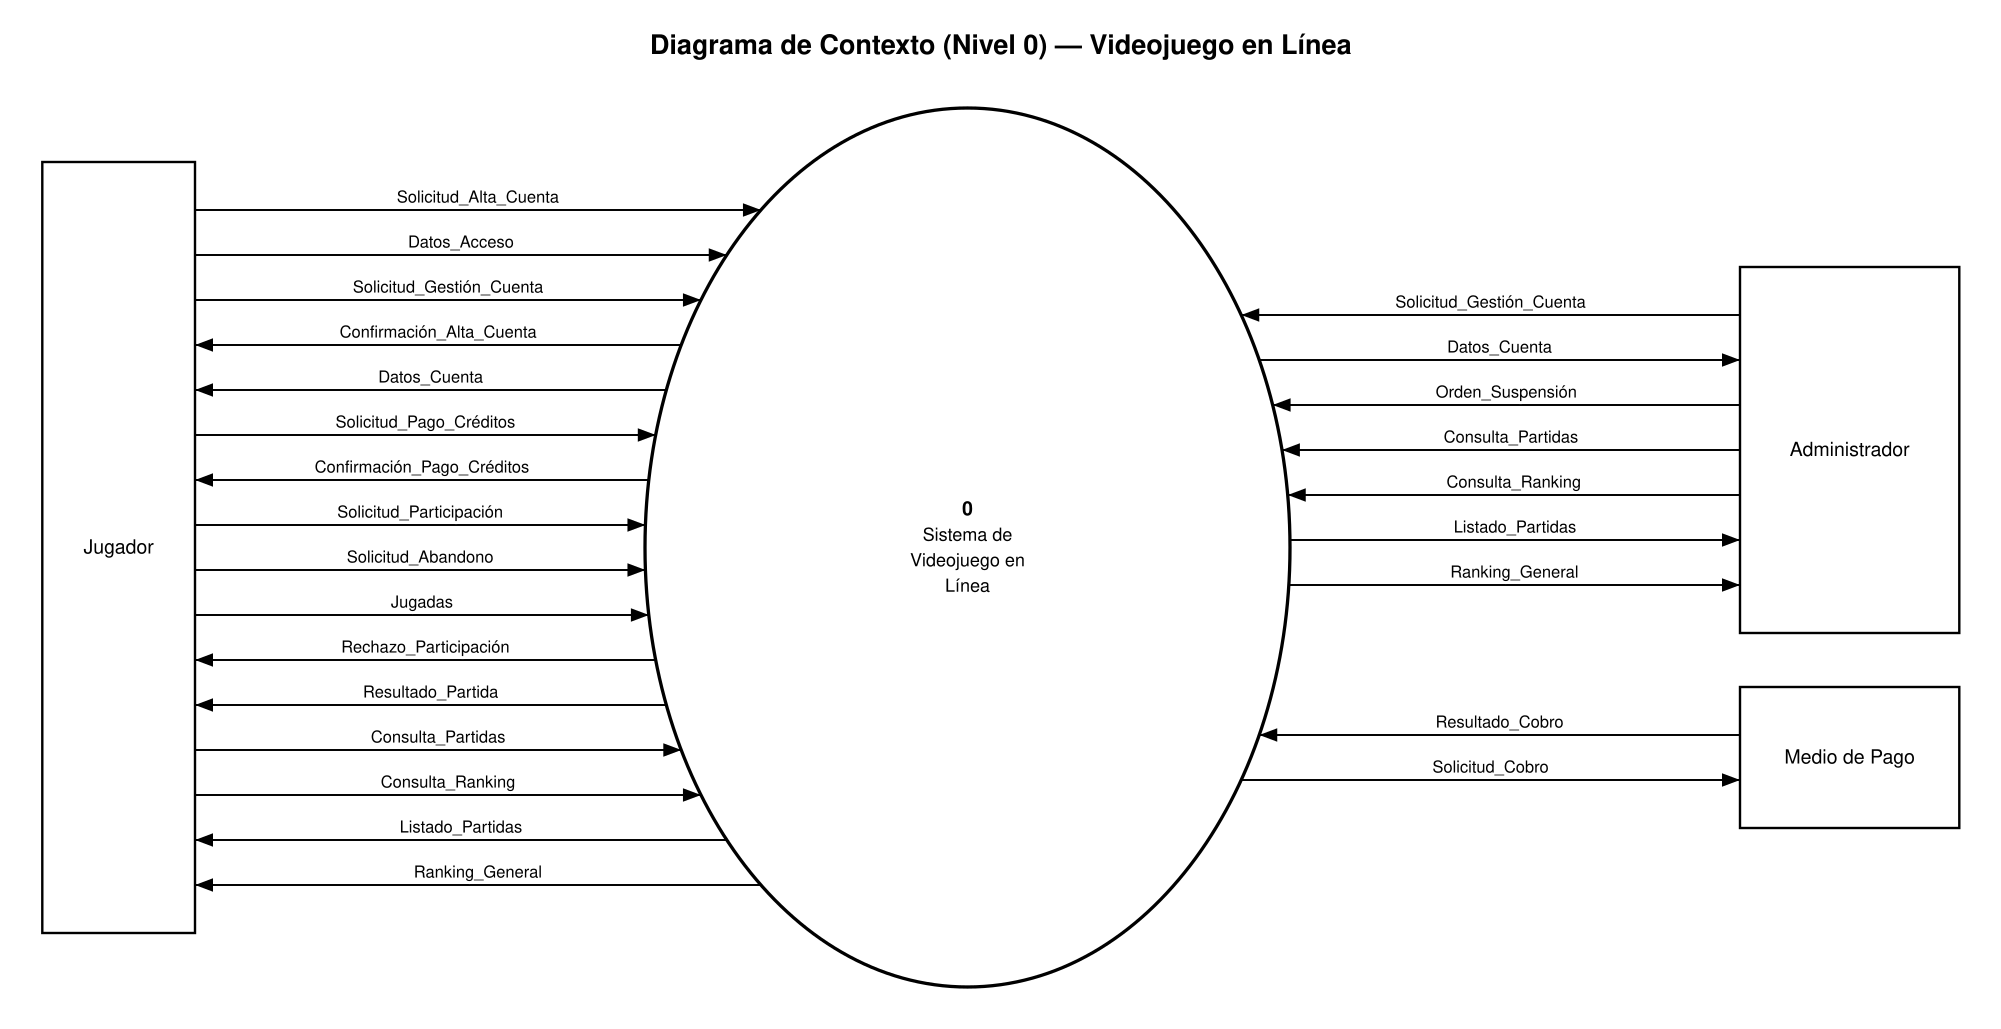
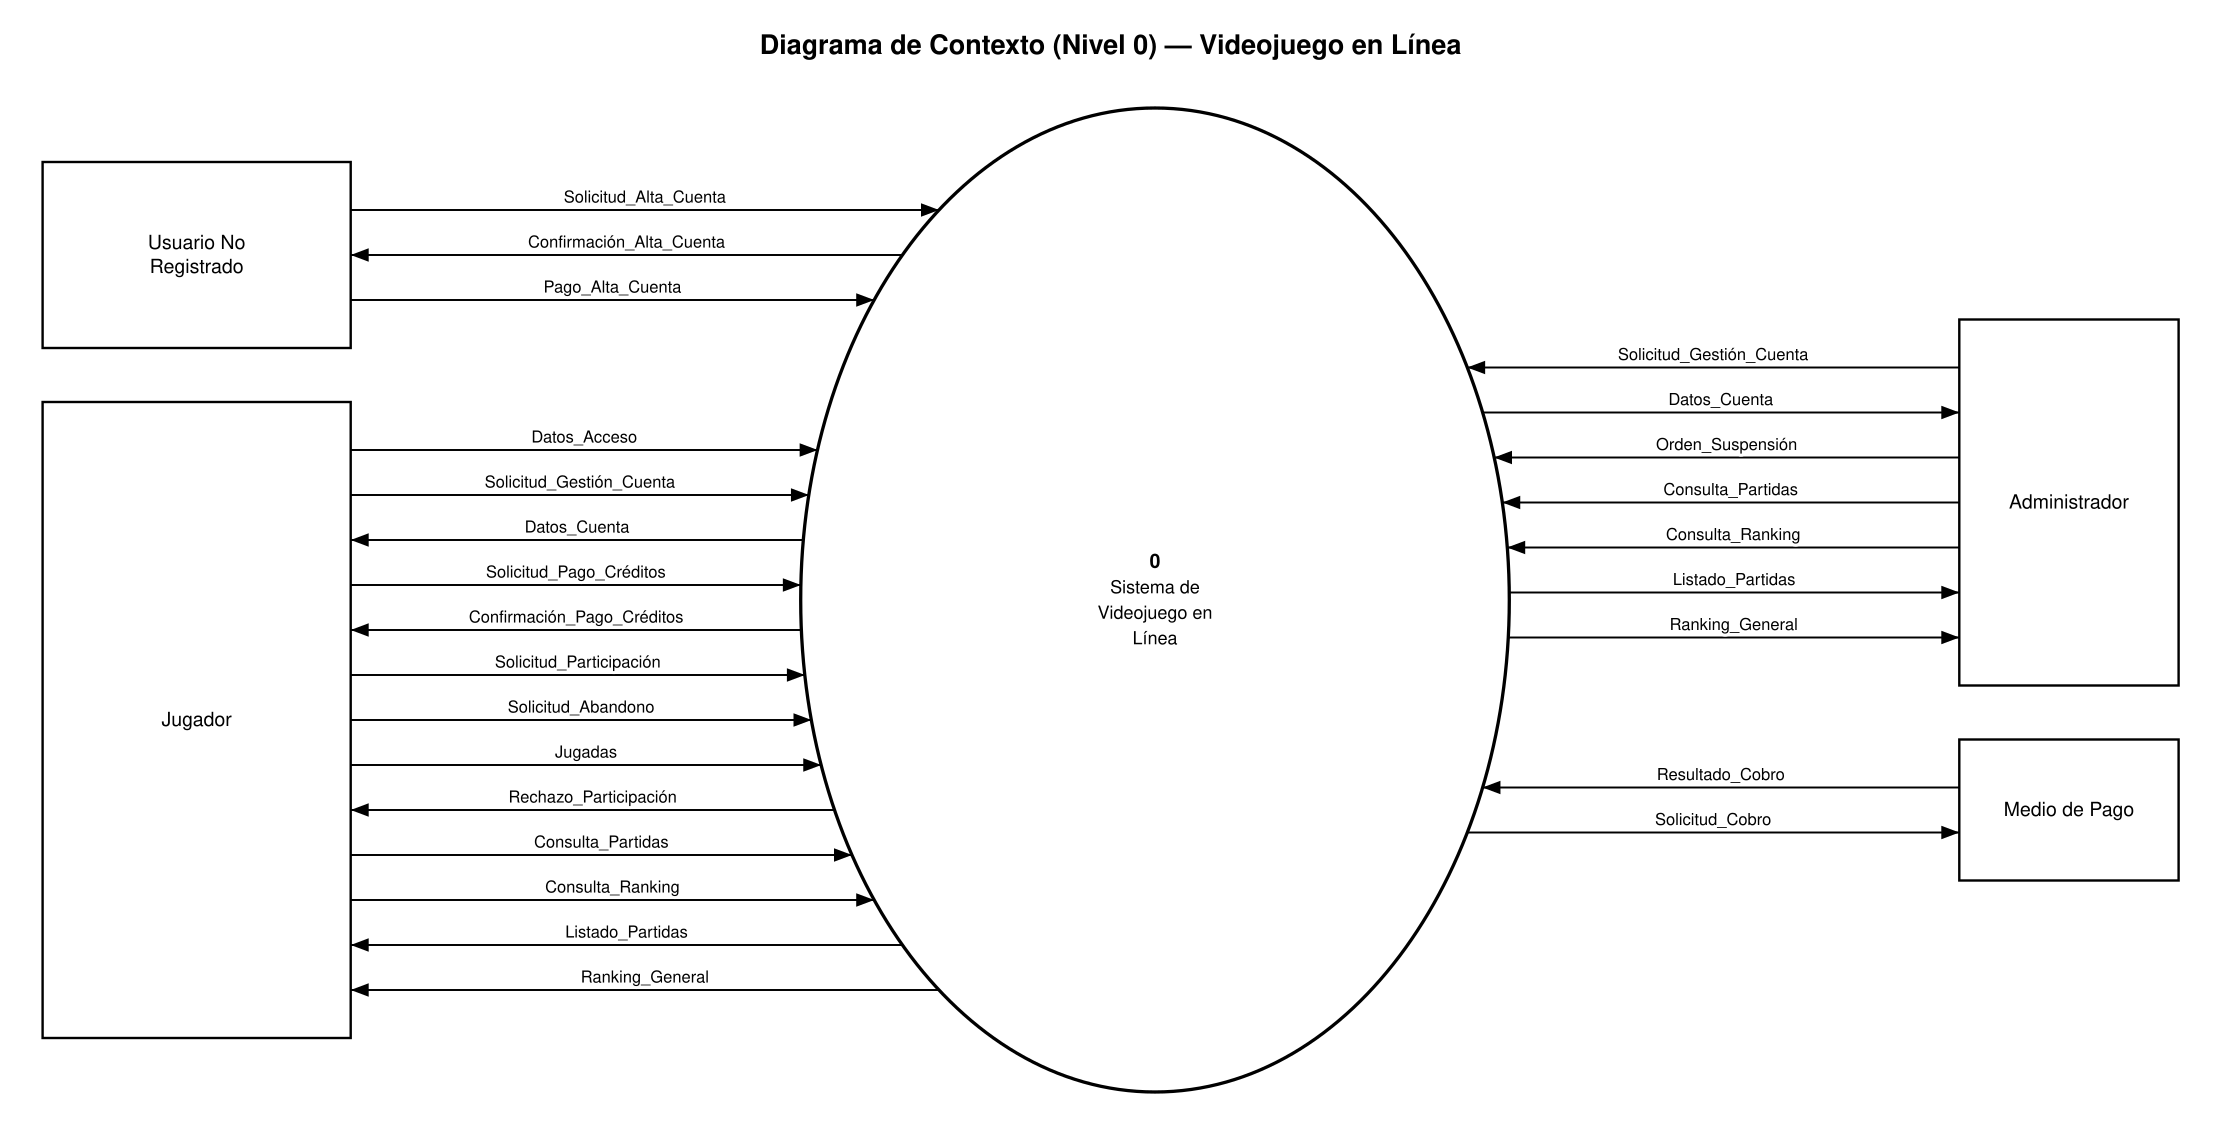
docs: add Usuario No Registrado and account-creation payment to exercise 1 DFD
Remove Resultado_Partida flow; rename process 2 to Gestionar Pagos.

diff --git a/README.md b/README.md
@@ -101,9 +101,10 @@ Se solicita modelar el sistema considerando las distintas entidades involucradas
 
 | Entidad | Rol frente al sistema | Qué envía / qué recibe |
 | --- | --- | --- |
-| **Jugador** | Persona que crea la cuenta (aspirante), inicia sesión, configura su perfil, paga créditos y juega partidas. | Envía solicitud de alta, datos de acceso, pedidos de pago, de participación y de abandono, jugadas y consultas. Recibe confirmaciones, rechazos, resultados, listado de partidas y ranking. |
+| **Usuario No Registrado** | Persona que todavía no tiene cuenta: solicita el alta y debe pagarla para que la cuenta se dé de alta. Al completarse el alta pasa a ser Jugador. | Envía la solicitud de alta y el pago del alta. Recibe la confirmación del alta (o el rechazo por pago no aprobado). |
+| **Jugador** | Persona con cuenta: inicia sesión, configura su perfil, paga créditos y juega partidas. | Envía datos de acceso, pedidos de pago de créditos, de participación y de abandono, jugadas y consultas. Recibe confirmaciones, rechazos, listado de partidas y ranking. |
 | **Administrador** | Gestiona cuentas, suspende cuentas que incumplen las reglas y consulta partidas y ranking. | Envía gestión de cuentas, órdenes de suspensión y consultas. Recibe datos de cuentas, listado de partidas y ranking. |
-| **Medio de Pago** | Organización externa por la que el jugador abona sus créditos (cualquier medio de pago). | Recibe la solicitud de cobro y devuelve su aprobación o rechazo. |
+| **Medio de Pago** | Organización externa por la que se abona el alta de la cuenta y los créditos (cualquier medio de pago). | Recibe la solicitud de cobro y devuelve su aprobación o rechazo. |
 
 No son entidades (están dentro del sistema): **Partida**, **Historial** y **Ranking** son datos que el sistema guarda (almacenes), y **Redes Sociales**, **Documento**, **Alias** o **Avatar** son atributos de la cuenta.
 
@@ -111,9 +112,9 @@ No son entidades (están dentro del sistema): **Partida**, **Historial** y **Ran
 
 | N° | Proceso | Qué hace |
 | --- | --- | --- |
-| 1 | **Administrar Cuentas** | Alta de cuenta e inicio de sesión del Jugador; gestión de cuentas (perfil, consulta y modificación) por el Jugador y el Administrador. |
-| 2 | **Gestionar Pago de Créditos** | Pago de créditos con cualquier medio de pago y acreditación del saldo en la cuenta. |
-| 3 | **Gestionar Partidas** | Creación y unión a partidas, verificación de condiciones, registro de resultados y abandonos, cierre de la partida. |
+| 1 | **Administrar Cuentas** | Alta de cuenta del Usuario No Registrado (una vez acreditado el pago del alta) e inicio de sesión del Jugador; gestión de cuentas (perfil, consulta y modificación) por el Jugador y el Administrador. |
+| 2 | **Gestionar Pagos** | Cobro del alta de cuenta al Usuario No Registrado y pago de créditos del Jugador, con cualquier medio de pago; acreditación del saldo en la cuenta. |
+| 3 | **Gestionar Partidas** | Creación y unión a partidas, verificación de condiciones, registro de resultados y abandonos, cierre de la partida y actualización de historial y ranking. |
 | 4 | **Suspender Cuentas** | Suspensión temporal de cuentas que incumplen las reglas de la plataforma. |
 | 5 | **Consultar Historial y Ranking** | Consulta de las partidas realizadas y del ranking general. |
 
@@ -127,20 +128,20 @@ Una sola burbuja numerada con **0** que representa todo el sistema, todas las en
 
 | Flujo | Origen | Destino | Descripción |
 | --- | --- | --- | --- |
-| `Solicitud_Alta_Cuenta` | Jugador | Sistema (0) | Datos con los que una persona abre su cuenta (ver diccionario). |
+| `Solicitud_Alta_Cuenta` | Usuario No Registrado | Sistema (0) | Datos con los que una persona no registrada solicita abrir su cuenta (ver diccionario). |
+| `Pago_Alta_Cuenta` | Usuario No Registrado | Sistema (0) | Medio de pago elegido y datos del pago con el que la persona abona el alta de la cuenta. |
 | `Datos_Acceso` | Jugador | Sistema (0) | Datos con los que el jugador se identifica para iniciar sesión. |
 | `Solicitud_Gestión_Cuenta` | Jugador, Administrador | Sistema (0) | Pedido de configurar el perfil, consultar o modificar una cuenta. |
-| `Confirmación_Alta_Cuenta` | Sistema (0) | Jugador | Confirma la cuenta creada y habilita la opción de Pago de Créditos. |
+| `Confirmación_Alta_Cuenta` | Sistema (0) | Usuario No Registrado | Confirma la cuenta creada y habilita la opción de Pago de Créditos (o informa que no se dio de alta por pago rechazado). |
 | `Datos_Cuenta` | Sistema (0) | Jugador, Administrador | Datos de la cuenta consultada y confirmación de los cambios realizados. |
 | `Solicitud_Pago_Créditos` | Jugador | Sistema (0) | Cantidad de créditos a comprar y medio de pago elegido. |
 | `Resultado_Cobro` | Medio de Pago | Sistema (0) | Aprobación o rechazo del cobro informado por el medio de pago. |
-| `Solicitud_Cobro` | Sistema (0) | Medio de Pago | Datos del pago enviados al medio de pago elegido. |
+| `Solicitud_Cobro` | Sistema (0) | Medio de Pago | Datos del pago (alta de cuenta o créditos) enviados al medio de pago elegido. |
 | `Confirmación_Pago_Créditos` | Sistema (0) | Jugador | Confirma el pago y el nuevo saldo de créditos (o informa el rechazo). |
 | `Solicitud_Participación` | Jugador | Sistema (0) | Pedido de crear una partida o de unirse a una partida creada por otro jugador. |
 | `Solicitud_Abandono` | Jugador | Sistema (0) | Decisión del jugador de abandonar la partida (antes de que comience o durante el juego). |
 | `Jugadas` | Jugador | Sistema (0) | Acciones del jugador durante la partida. |
 | `Rechazo_Participación` | Sistema (0) | Jugador | Motivo por el que no se puede participar (sin lugares, cuenta suspendida o créditos insuficientes). |
-| `Resultado_Partida` | Sistema (0) | Jugador | Resultado obtenido por el jugador al finalizar la partida (o por abandono). |
 | `Orden_Suspensión` | Administrador | Sistema (0) | Cuenta a suspender, motivo y período de suspensión. |
 | `Consulta_Partidas` | Jugador, Administrador | Sistema (0) | Pedido de consulta de las partidas realizadas. |
 | `Consulta_Ranking` | Jugador, Administrador | Sistema (0) | Pedido de consulta del ranking general. |
@@ -149,9 +150,15 @@ Una sola burbuja numerada con **0** que representa todo el sistema, todas las en
 
 ##### Nivel 1
 
-Descompone el proceso 0 en 5 procesos y agrega los almacenamientos que comparten. Los 19 flujos externos del diagrama de contexto se conservan sin cambios (balanceo nivel 0 ↔ nivel 1); aquí se dibujan sin la entidad, como en la solución de la cátedra, y su origen o destino figura en la tabla anterior.
+Descompone el proceso 0 en 5 procesos y agrega los almacenamientos que comparten. Los 19 flujos externos del diagrama de contexto se conservan sin cambios (balanceo nivel 0 ↔ nivel 1); aquí se dibujan sin la entidad, como en la solución de la cátedra, y su origen o destino figura en la tabla anterior. Se agrega un flujo entre procesos, `Resultado_Pago_Alta` (2 → 1): el proceso 2 cobra el alta y le informa al proceso 1 si el pago fue aprobado, y recién entonces el proceso 1 da de alta la cuenta.
 
 ![Nivel 1 — Videojuego en Línea](diagramas/c1-nivel1.png)
+
+Flujo entre procesos de esta figura:
+
+| Flujo | De | A | Descripción |
+| --- | --- | --- | --- |
+| `Resultado_Pago_Alta` | 2 | 1 | Aprobación o rechazo del cobro del alta; la cuenta solo se da de alta si el pago fue aprobado. |
 
 | Almacén | Contenido | Escribe | Lee |
 | --- | --- | --- | --- |
@@ -174,7 +181,7 @@ Se detalla el proceso **3 Gestionar Partidas** por ser el que concentra las regl
 | 3.3 | **Verificar Condiciones de Inicio** | Verifica que los jugadores estén conectados y que se alcance el mínimo de participantes; habilita el comienzo de la partida. |
 | 3.4 | **Registrar Abandono** | Registra el abandono (antes del comienzo o durante el juego) y actualiza el resultado del jugador. |
 | 3.5 | **Registrar Resultados** | Registra los resultados obtenidos por cada jugador durante el juego. |
-| 3.6 | **Finalizar Partida** | Cierra la partida, actualiza el historial y el ranking, y comunica el resultado. |
+| 3.6 | **Finalizar Partida** | Cierra la partida y actualiza el historial y el ranking. |
 
 Flujos entre procesos de esta figura:
 
@@ -191,7 +198,6 @@ Flujos entre procesos de esta figura:
 | `Rechazo_Participación` | Salida | proceso 3 | 3.1 |
 | `Solicitud_Abandono` | Entrada | proceso 3 | 3.4 |
 | `Jugadas` | Entrada | proceso 3 | 3.5 |
-| `Resultado_Partida` | Salida | proceso 3 | 3.6 |
 
 Los almacenamientos del proceso 3 se repiten en la figura 3 con el mismo tipo de acceso y aparece además el almacén local `Partidas`, que no se muestra en el nivel 1 porque lo usan solo los subprocesos de esta figura:
 
@@ -245,14 +251,16 @@ Datos elementales (longitud y formato son propuestas de diseño: el enunciado so
 
 #### Supuestos
 
-- La persona que abre la cuenta y el jugador son el mismo rol, por eso hay una única entidad **Jugador**.
+- La persona que todavía no tiene cuenta es el **Usuario No Registrado**: solicita el alta y debe pagarla; una vez acreditado el pago la cuenta se da de alta y esa persona pasa a ser **Jugador**. Son entidades distintas porque interactúan con el sistema de forma diferente (el Usuario No Registrado solo puede solicitar y pagar el alta).
+- El **pago del alta** se hace con el mismo **Medio de Pago** que los créditos; si el pago es rechazado la cuenta no se da de alta. El importe del alta no se detalla en el enunciado y no se modela.
+- No se modela el resultado de la partida como flujo hacia el Jugador: el resultado se registra en el historial y el ranking, que el Jugador consulta con `Consulta_Partidas` y `Consulta_Ranking`.
 - **Medio de Pago** se incorpora como entidad externa porque el enunciado indica que el pago se realiza "a través de distintos medios de pago": hay alguien fuera del sistema que cobra y confirma.
 - Solo **Avatar** está marcado como optativo; por eso **Redes Sociales** se modela como obligatoria (al menos una de las opciones).
 - "Estar conectado" se representa con el almacén `Sesiones`, que se escribe al iniciar sesión y se lee al verificar las condiciones de inicio de la partida.
 - Esperar a que comience la partida no genera ningún flujo: solo el abandono es un dato nuevo.
 - El enunciado exige que el jugador "cuente con los créditos necesarios"; solo se verifica el saldo, no se modela un descuento porque no se indica.
 - Los tipos de documento `DNI | Pasaporte` son los del ejemplo de la cátedra.
-- Para no sobrecargar el contexto se omiten flujos que no agregan información propia: el resultado del inicio de sesión (la sesión queda registrada en `Sesiones`), el acceso del Administrador y el aviso de inicio de partida (el enunciado solo habla de sesión del Jugador y de que la partida "podrá comenzar") y la confirmación de la suspensión.
+- Para no sobrecargar el contexto se omiten flujos que no agregan información propia: el resultado del inicio de sesión (la sesión queda registrada en `Sesiones`), el acceso del Administrador y el aviso de inicio de partida y la notificación del resultado de la partida (el enunciado solo habla de sesión del Jugador y de que la partida "podrá comenzar") y la confirmación de la suspensión.
 
 ---
 
